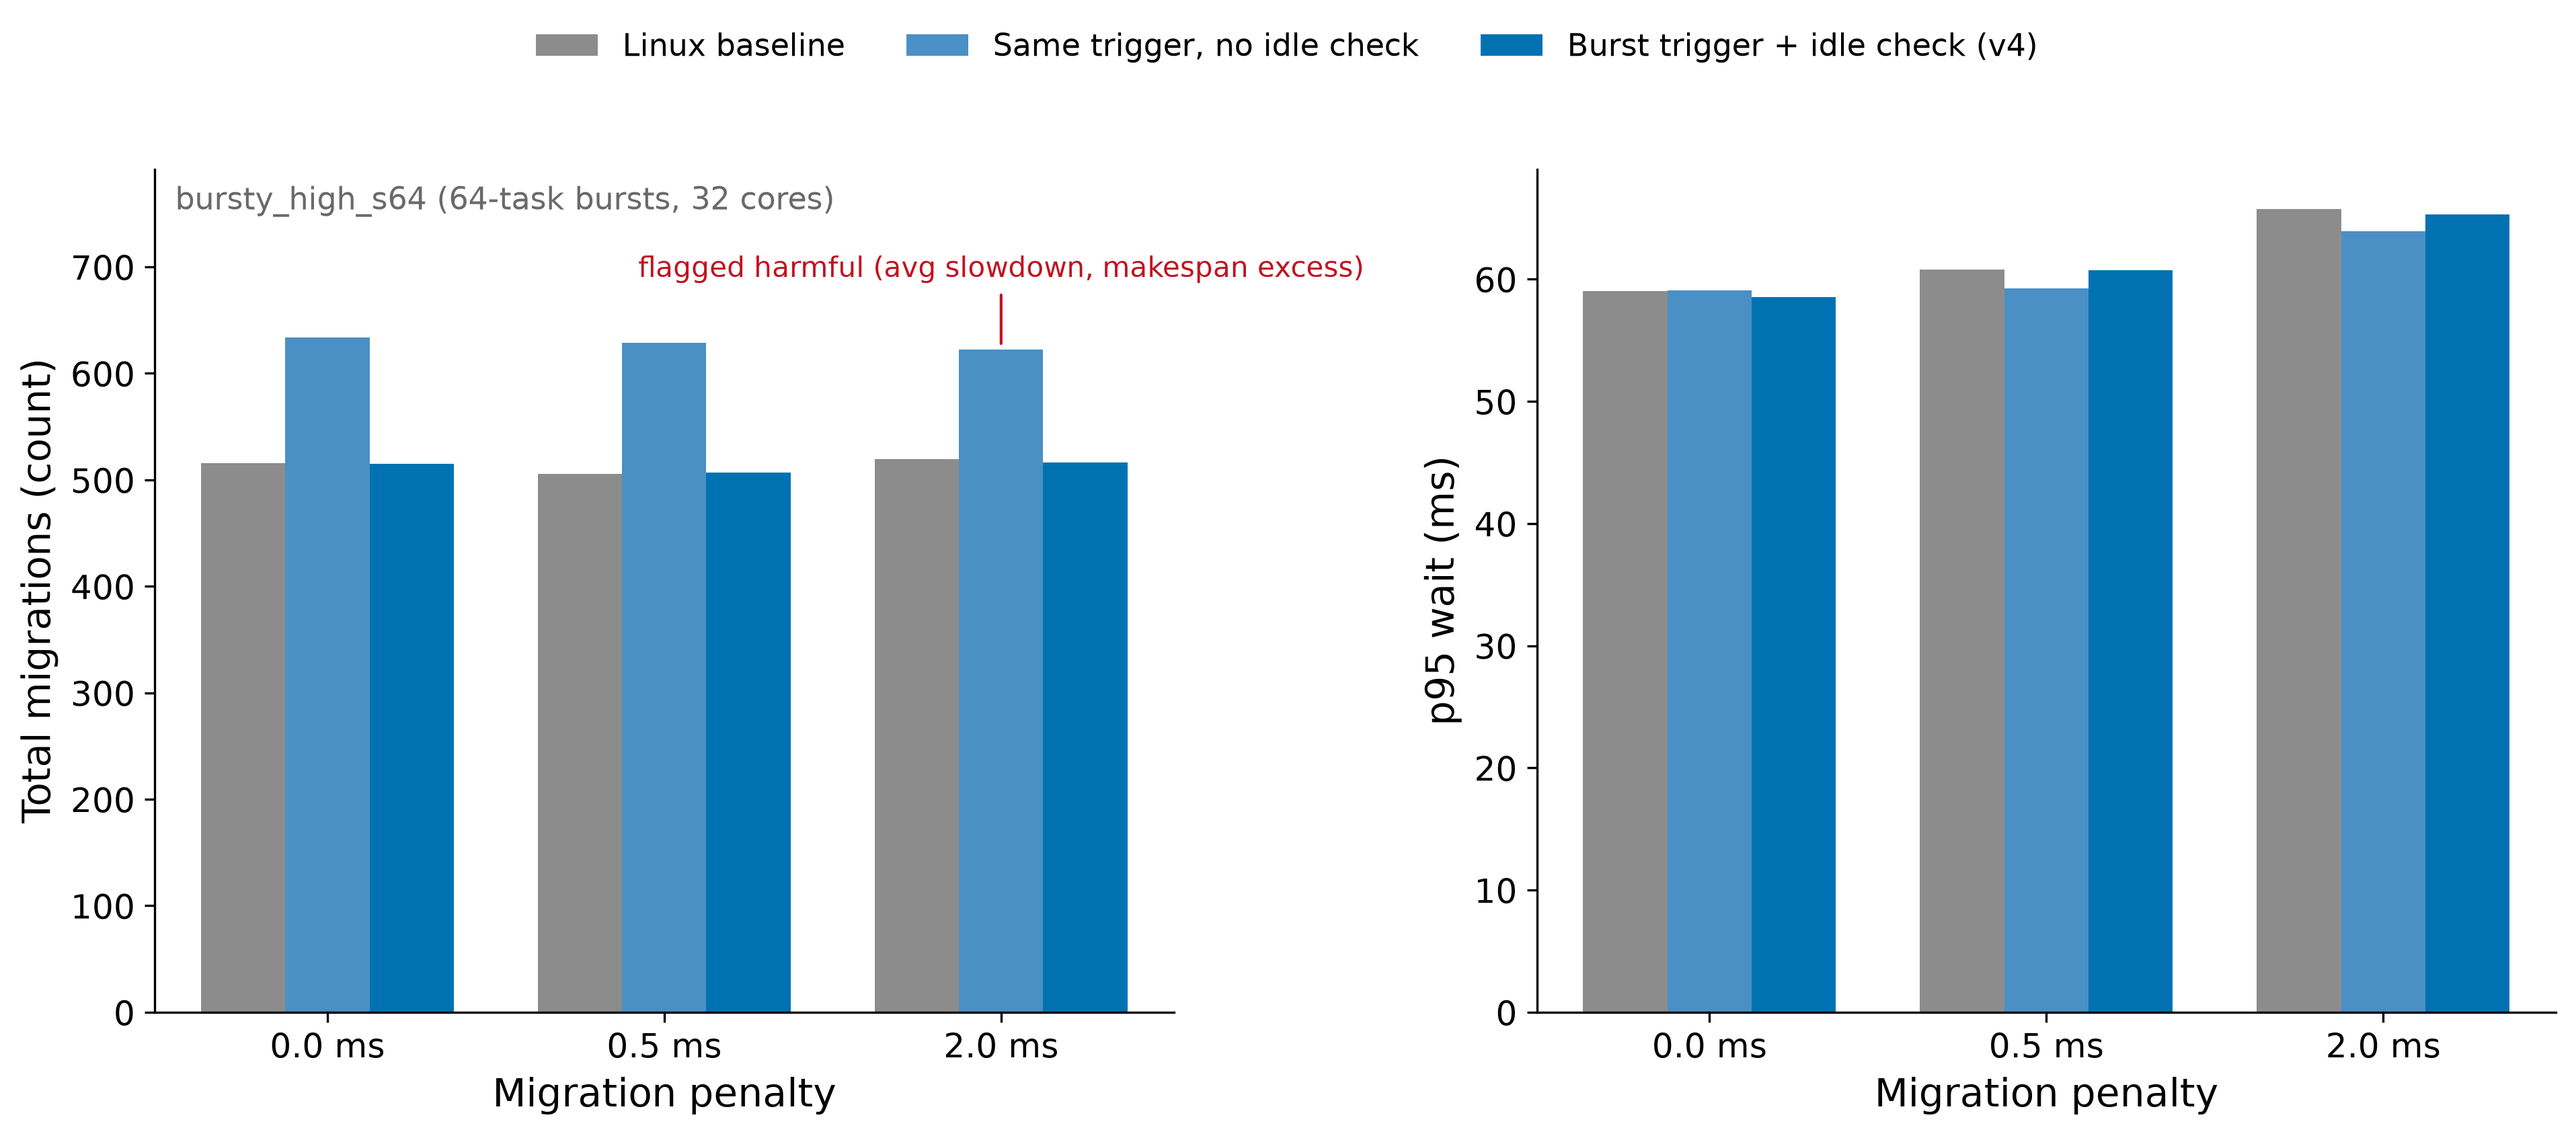
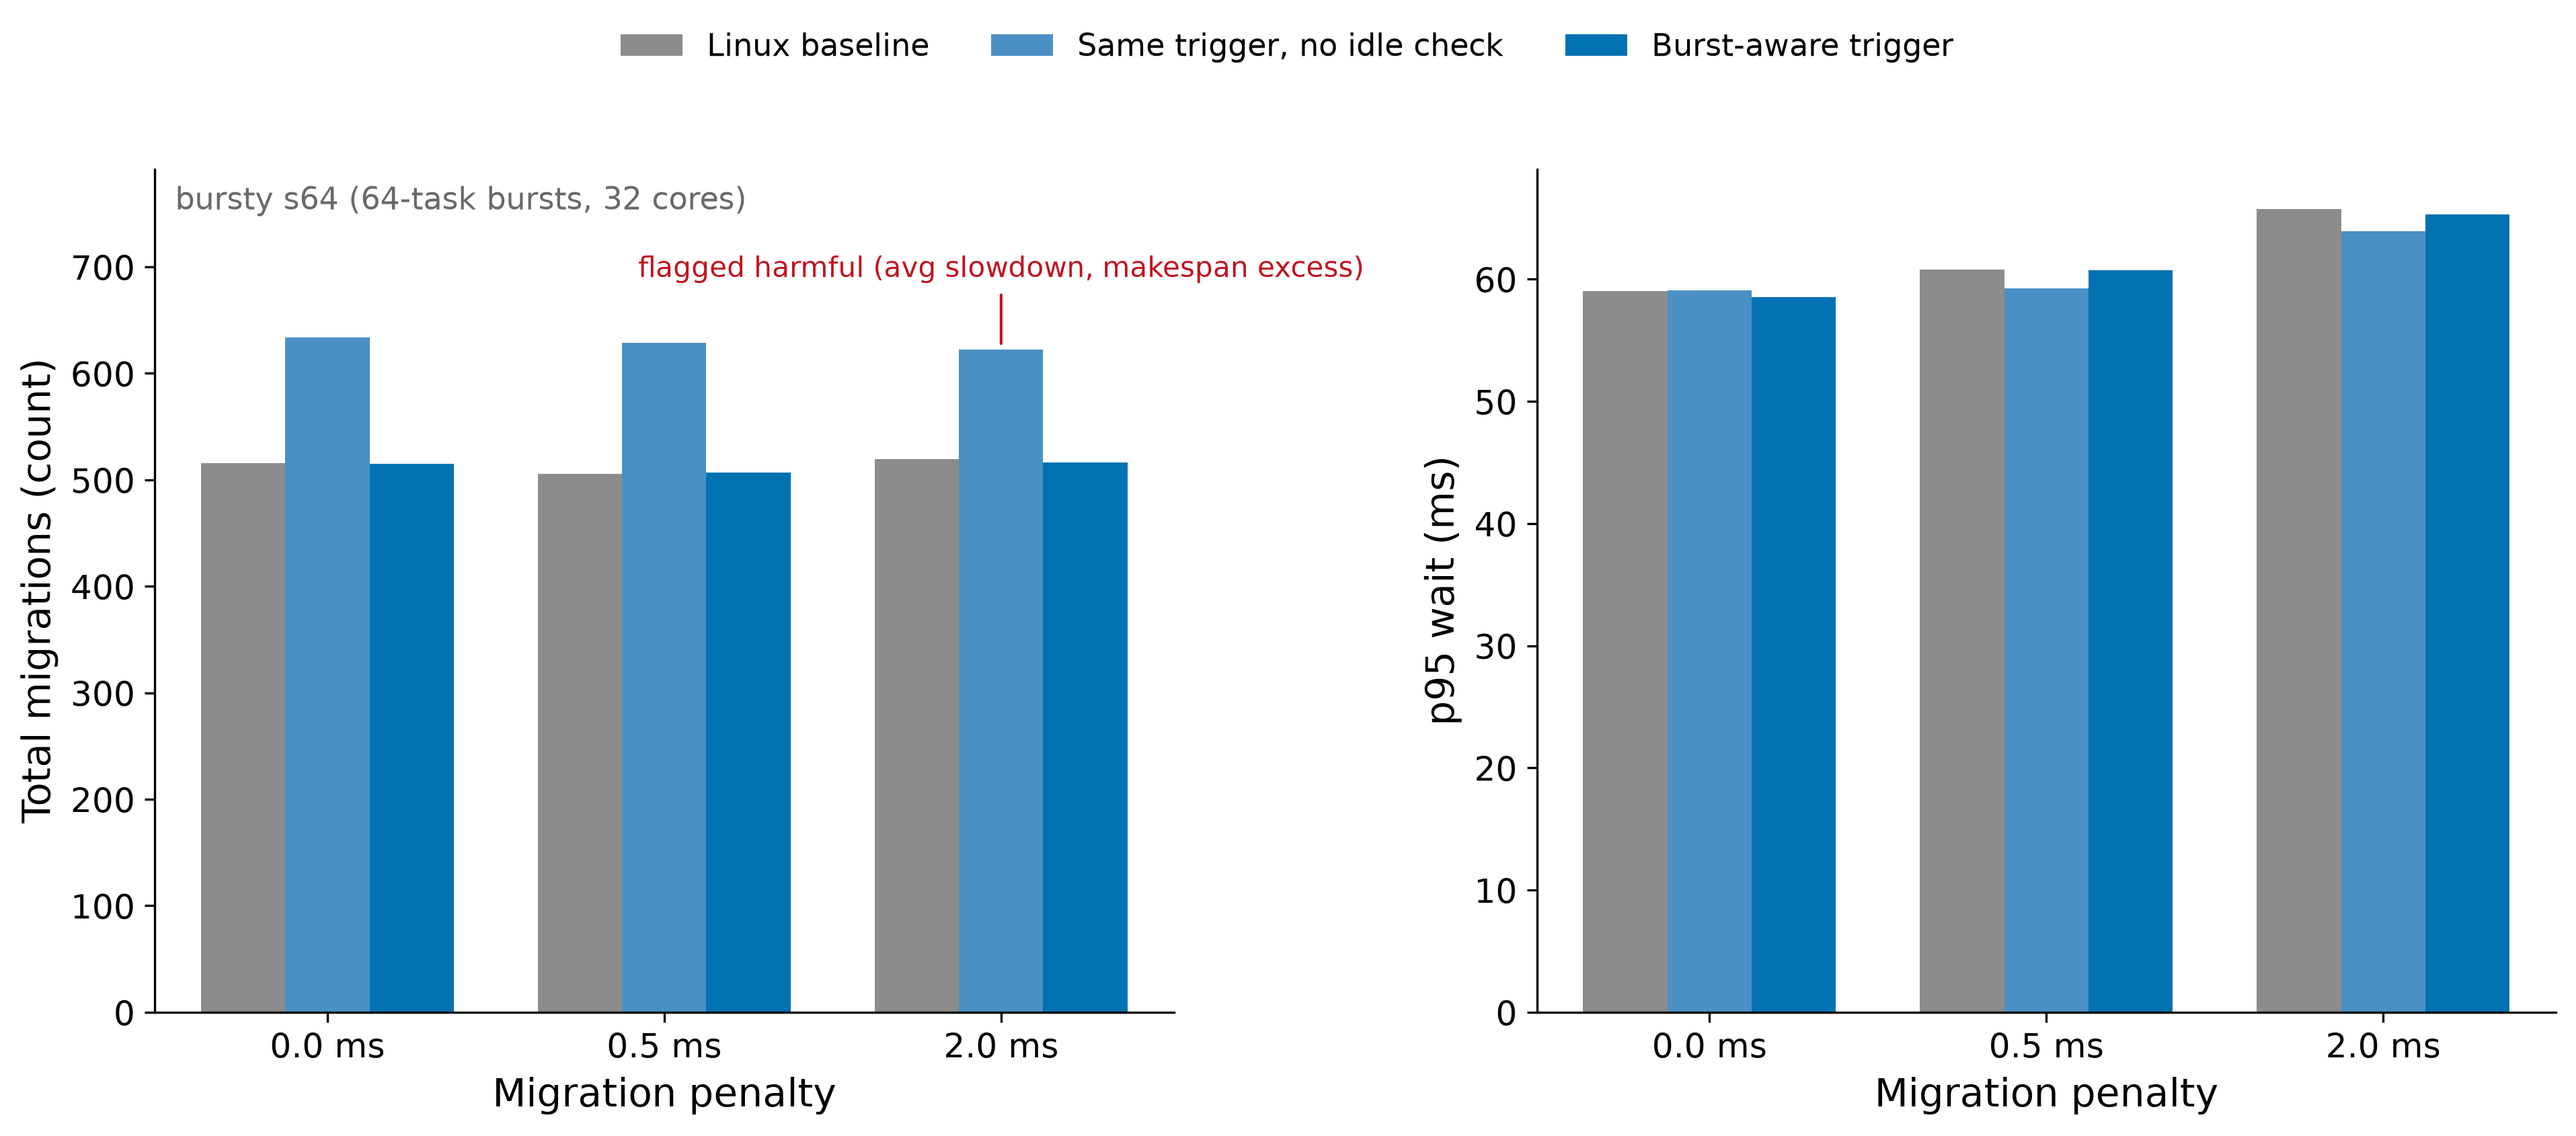
Figure labels: config numbers, paper workload names

Changed region(s): [[0.1864, 0.0308, 0.7766, 0.0615], [0.0932, 0.1538, 0.3106, 0.1846]]

diff --git a/final_results/figures/make_figures.py b/final_results/figures/make_figures.py
@@ -59,7 +59,7 @@ if not os.environ.get("TASK10_V4"):
 
 LABELS = {
     "baseline": "Linux baseline",
-    "selected_checked": "Burst trigger + idle check (v4)",
+    "selected_checked": "Burst-aware trigger",
     "selected_unchecked": "Same trigger, no idle check",
 }
 
@@ -101,6 +101,25 @@ WORKLOAD_ORDER = [
     "rate1.0_s4", "rate1.0_s12", "rate1.5_s4", "rate1.5_s12",
     "rate3.0_s4", "rate3.0_s12",
 ]
+
+# Paper-facing names for the code's workload keys (display text only --
+# every CSV lookup/dict key elsewhere in this file still uses the code
+# name unchanged). The 6 non-rate names are spelled out by hand; the 10
+# rate-sweep names are parsed from the key itself (rate{r}_s{s}) so they
+# can't drift out of sync with WORKLOAD_ORDER.
+DISPLAY_NAME = {
+    "stacked_low": "stacked low",
+    "stacked_medium": "stacked medium",
+    "stacked_high": "stacked high",
+    "bursty_high_s24": "bursty s24",
+    "bursty_high_s64": "bursty s64",
+    "heavy_tail_high": "heavy tail",
+}
+for _wl in WORKLOAD_ORDER:
+    if _wl not in DISPLAY_NAME:
+        _m = re.match(r"rate([\d.]+)_s(\d+)$", _wl)
+        DISPLAY_NAME[_wl] = f"rate sweep s{_m.group(2)}, {_m.group(1)} tasks/ms"
+assert set(DISPLAY_NAME) == set(WORKLOAD_ORDER), "DISPLAY_NAME must cover exactly WORKLOAD_ORDER"
 
 plt.rcParams.update({
     "font.size": 14,
@@ -166,14 +185,22 @@ def pretty_metric(name):
 
 # =============================================================== Fig 0 ==
 
-def config_label(row):
+def config_label(row, config_number):
     combine_word = "OR" if row["combine"] == "or" else "AND"
-    return f"q≥{int(float(row['q']))} {combine_word} rate≥{row['a']}"
+    n = config_number[row["config"]]
+    return f"#{n}  q≥{int(float(row['q']))} {combine_word} rate≥{row['a']}"
 
 
 def fig0_calibration_grid():
     rows = read_grid_csv("tradeoff_points_v4.csv")
     sel = read_grid_json("selected_config_v4.json")
+
+    # Config numbers #1-12, derived from the config names themselves
+    # (q{q}_a{a}_{and|or}), not hand-assigned: sorting those strings
+    # alphabetically groups by q (2 < 4 < 8), then by rate ("0.8" < "1.5"),
+    # then "and" < "or" -- exactly q2_a0.8_and, q2_a0.8_or, q2_a1.5_and, ...,
+    # q8_a1.5_or, #1 through #12 in that order.
+    config_number = {cfg: i + 1 for i, cfg in enumerate(sorted(r["config"] for r in rows))}
 
     # The 4 cells the selection score is averaged over (docs/PIPELINE.md's
     # Selection step): stacked_medium/stacked_high x penalties 0/0.5.
@@ -184,7 +211,7 @@ def fig0_calibration_grid():
         mean_pct = sum(fnum(r, c) for c in P95_COLS) / len(P95_COLS)
         points.append(dict(
             config=r["config"], harm_count=int(r["harm_count"]),
-            mean_pct=mean_pct, label=config_label(r),
+            mean_pct=mean_pct, label=config_label(r, config_number),
         ))
 
     # Verify against a SECOND, independently-written source
@@ -263,8 +290,7 @@ def fig0_calibration_grid():
     # regardless of whether every value happens to be negative -- excluding
     # it here would silently clip every bar's true starting edge.
     ax.set_xlim(min(xmin, 0) - 3 * label_pad, max(xmax, 0) + 3 * label_pad)
-    ax.set_xlabel("Mean p95 wait change, stacked_medium + stacked_high (%) "
-                  "-- number at bar end = disqualifying harm cells (penalties 0 & 0.5)")
+    ax.set_xlabel("Mean p95 wait change (%)")
 
     handles = [
         Line2D([0], [0], marker="s", linestyle="none", markersize=14,
@@ -274,14 +300,14 @@ def fig0_calibration_grid():
                markerfacecolor=DISQUALIFIED_COLOR, markeredgecolor=DISQUALIFIED_COLOR,
                label="Disqualified (harmful)"),
         Line2D([0], [0], marker="*", linestyle="none", markersize=17, color="black",
-               label=f"Selected (v4): {selected_pt['label']}"),
+               label=f"Selected: {selected_pt['label']}"),
         Line2D([0], [0], marker="D", linestyle="none", markersize=10,
                markerfacecolor="white", markeredgecolor="black", markeredgewidth=2,
                label=f"Runner-up: {runner_up_pt['label']}"),
     ]
     fig.legend(handles=handles, loc="lower center", ncol=2, frameon=False,
-               fontsize=11, bbox_to_anchor=(0.5, -0.1))
-    fig.tight_layout(rect=(0, 0.1, 1, 1))
+               fontsize=11, bbox_to_anchor=(0.5, -0.02))
+    fig.tight_layout(rect=(0, 0.06, 1, 1))
 
     save(fig, "fig0_calibration_grid")
     return dict(selected=selected_name, runner_up=runner_up_name,
@@ -332,14 +358,14 @@ def fig1_headline():
 
     ax.axvline(0, color="black", linewidth=1.0)
     ax.set_yticks(y)
-    ax.set_yticklabels(ordered_for_plot)
+    ax.set_yticklabels([DISPLAY_NAME[wl] for wl in ordered_for_plot])
     ax.set_xlabel(f"p95 wait change vs baseline (%) -- penalty {PEN} ms")
 
     handles, labels = ax.get_legend_handles_labels()
     handles += [
         Line2D([0], [0], marker="o", linestyle="none", markersize=9,
                markerfacecolor="white", markeredgecolor=COLOR["selected_checked"],
-               markeredgewidth=1.6, label="No measurable change (v4)"),
+               markeredgewidth=1.6, label="No measurable change"),
         Line2D([0], [0], marker="*", linestyle="none", markersize=14,
                color=COLOR["sig"], label=f"Statistically significant improvement (p<{SIG_ALPHA})"),
         Line2D([0], [0], marker="^", linestyle="none", markersize=10,
@@ -380,11 +406,11 @@ def fig2_stacked_high_scatter():
     ax.set_ylim(lo - pad, hi + pad)
     ax.set_aspect("equal")
     ax.set_xlabel("Linux baseline p95 wait (ms)")
-    ax.set_ylabel("v4 p95 wait (ms)")
+    ax.set_ylabel("Burst-aware p95 wait (ms)")
     ax.annotate(f"{improved} of {n} seeds improved",
                 xy=(0.04, 0.94), xycoords="axes fraction",
                 fontsize=13, va="top")
-    ax.annotate(f"{FIG2_WORKLOAD}, migration penalty {FIG2_PENALTY} ms",
+    ax.annotate(f"{DISPLAY_NAME[FIG2_WORKLOAD]}, migration penalty {FIG2_PENALTY} ms",
                 xy=(0.04, 0.88), xycoords="axes fraction",
                 fontsize=11, va="top", color="dimgray")
     fig.legend(loc="lower center", ncol=2, frameon=False, fontsize=11,
@@ -496,7 +522,7 @@ def fig3_bursty_high_s64():
                              arrowprops=dict(arrowstyle="-", color=COLOR["harm"], linewidth=1))
     ax1.set_ylim(top=mig_top * 1.25)
 
-    ax1.annotate(f"{WL} ({burst_size_of(WL)}-task bursts, {MACHINE_CORES} cores)",
+    ax1.annotate(f"{DISPLAY_NAME[WL]} ({burst_size_of(WL)}-task bursts, {MACHINE_CORES} cores)",
                  xy=(0.02, 0.98), xycoords="axes fraction", fontsize=11,
                  va="top", color="dimgray")
 

diff --git a/docs/FILES.md b/docs/FILES.md
@@ -69,14 +69,14 @@ Read-only, same discipline as `3_idle_check_cost/build_cost_table.py`: no simula
 
 | file | what it does |
 |---|---|
-| `make_figures.py` | One script, five figures. Reads `results_task6_confirmation_v4_MAIN_TABLE.csv`, `_TABLE_selected_unchecked.csv`, `_TABLE_original_q2_a0.8_or_unchecked.csv`, `_CHECK_EFFECT.csv`, the `stacked_high` per-seed CSV, and (Fig 0) `../1_calibration_grid/tradeoff_points_v4.csv` + `selected_config_v4.json`. Cross-checks every plotted number against a second source table before drawing it (e.g. Fig 0's harm-free list and selected/runner-up scores are checked against `selected_config_v4.json`, independently written by a different script; Fig 3's migration counts are independently recomputed and compared against `_CHECK_EFFECT.csv`'s own percentage column) and prints every check's result. |
+| `make_figures.py` | One script, five figures. Reads `results_task6_confirmation_v4_MAIN_TABLE.csv`, `_TABLE_selected_unchecked.csv`, `_CHECK_EFFECT.csv`, the `stacked_high` per-seed CSV, and (Fig 0) `../1_calibration_grid/tradeoff_points_v4.csv` + `selected_config_v4.json`. Cross-checks every plotted number against a second source table before drawing it (e.g. Fig 0's harm-free list and selected/runner-up scores are checked against `selected_config_v4.json`, independently written by a different script; Fig 3's migration counts are independently recomputed and compared against `_CHECK_EFFECT.csv`'s own percentage column) and prints every check's result. |
 | `fig0_calibration_grid.png` | The 12-config calibration grid as a horizontal bar chart: one bar per config, length = mean `p95_wait` change on `stacked_medium`+`stacked_high` (penalties 0/0.5), sorted best (most negative) at top. Bar color is harm-free vs disqualified; the disqualifying-harm-cell count is written at each bar's end. Selected (star) and runner-up (open diamond) marked on their own bars. Console output also prints the disqualified config list directly from `tradeoff_points_v4.csv`. |
-| `fig1_headline_p95wait_by_workload.png` | All 16 workloads, p95_wait % change vs baseline at penalty=0.5ms, `selected_checked` vs `original_q2_a0.8_or_unchecked`, sorted so the 4 workloads where v4 significantly helps are at the top; a small circle marks a workload where v4's own change is exactly zero. |
+| `fig1_headline_p95wait_by_workload.png` | All 16 workloads, p95_wait % change vs baseline at penalty=0.5ms for the selected configuration (`selected_checked`) only, sorted so the 4 workloads where it significantly helps are at the top; a small circle marks a workload where its change is exactly zero. |
 | `fig2_stacked_high_perseed_scatter.png` | `stacked_high`/penalty=0.5: one point per seed, baseline vs `selected_checked` p95_wait, with the y=x line and the improved-seed count annotated. |
 | `fig3_bursty_high_s64_checked_vs_unchecked.png` | `bursty_high_s64`, all 3 penalties: `total_migrations` and `p95_wait` for baseline/`selected_unchecked`/`selected_checked`. The one harmful cell (`selected_unchecked`, penalty=2.0) is called out by a text label on the migrations panel naming the specific metrics that tripped it (read from that row's own per-metric harm columns -- `avg_slowdown`/`makespan_excess`, not p95_wait or migrations themselves), rather than a marker on both panels. |
-| `fig4_p95wait_vs_arrival_rate.png` | The arrival-rate figure (`2_confirmation/history/figure_p95wait_vs_arrival_rate_v4.png`'s data, the superseded original), restyled: p95_wait % change vs `arrival_rate_during_burst`, burst sizes 4 and 12, `selected_checked` vs `original_q2_a0.8_or_unchecked`, penalties 0.5 and 2ms (matching Fig 1's penalty), with any harmful point marked. |
+| `fig4_p95wait_vs_arrival_rate.png` | The arrival-rate figure (`2_confirmation/history/figure_p95wait_vs_arrival_rate_v4.png`'s data, the superseded original), restyled: p95_wait % change vs `arrival_rate_during_burst`, burst sizes 4 and 12, selected configuration (`selected_checked`) only, penalties 0.5 and 2ms (matching Fig 1's penalty), with any harmful point marked. |
 
-Figs 1-4 use plain-language series names (e.g. "Burst trigger + idle check (v4)" for `selected_checked`) rather than the CSV's own variant codes -- the one `LABELS` dict at the top of `make_figures.py` is the only place that mapping lives. Fig 0 predates the confirmation (it's the calibration step), so it labels configurations by their actual thresholds instead (e.g. "q≥8 OR rate≥1.5"), derived from `tradeoff_points_v4.csv`'s own `q`/`a`/`combine` columns.
+Figs 1-4 use plain-language series names (e.g. "Burst-aware trigger" for `selected_checked`) rather than the CSV's own variant codes -- the one `LABELS` dict at the top of `make_figures.py` is the only place that mapping lives. Fig 0 predates the confirmation (it's the calibration step), so it labels configurations by their actual thresholds instead (e.g. "q≥8 OR rate≥1.5"), derived from `tradeoff_points_v4.csv`'s own `q`/`a`/`combine` columns.
 
 ### `development/` — one-off diagnosis and verification, real findings that aren't the final numbers
 

diff --git a/docs/PIPELINE.md b/docs/PIPELINE.md
@@ -109,12 +109,12 @@ python make_figures.py
 No arguments; same `TASK10_V4=1` requirement as every script above (refuses to run otherwise). Reads only CSVs already on disk — the two confirmation steps above, plus the already-committed calibration-grid CSVs for Fig 0 — no new simulations, nothing in `final_results/2_confirmation/` or `final_results/1_calibration_grid/` is modified. Writes five PNG figures (300 dpi) into `final_results/figures/`:
 
 - `fig0_calibration_grid.png` — the 12-config calibration grid as a horizontal bar chart (one bar per config, sorted by mean `p95_wait` change on `stacked_medium`+`stacked_high`, penalties 0/0.5; harm-free vs disqualified by color, disqualifying-cell count at each bar's end, selected/runner-up marked), from `final_results/1_calibration_grid/tradeoff_points_v4.csv`, cross-checked against `selected_config_v4.json`.
-- `fig1_headline_p95wait_by_workload.png` — all 16 workloads' `p95_wait` % change at penalty=0.5ms, `selected_checked` vs `original_q2_a0.8_or_unchecked`, from `_MAIN_TABLE.csv` and `_TABLE_original_q2_a0.8_or_unchecked.csv`.
+- `fig1_headline_p95wait_by_workload.png` — all 16 workloads' `p95_wait` % change at penalty=0.5ms for the selected configuration (`selected_checked`) only, from `_MAIN_TABLE.csv`.
 - `fig2_stacked_high_perseed_scatter.png` — `stacked_high`/penalty=0.5, one point per seed, from `results_task6_confirmation_v4_stacked_high_perseed.csv`.
 - `fig3_bursty_high_s64_checked_vs_unchecked.png` — `bursty_high_s64`, all 3 penalties, `total_migrations` and `p95_wait` for baseline/`selected_unchecked`/`selected_checked`, from `_MAIN_TABLE.csv` and `_TABLE_selected_unchecked.csv`, cross-checked against `_CHECK_EFFECT.csv`.
-- `fig4_p95wait_vs_arrival_rate.png` — the same data as `history/figure_p95wait_vs_arrival_rate_v4.png` above, restyled to match the other three (penalties 0.5/2ms, matching Fig 1, rather than that figure's 0/2ms), from `_MAIN_TABLE.csv` and `_TABLE_original_q2_a0.8_or_unchecked.csv`.
+- `fig4_p95wait_vs_arrival_rate.png` — the same data as `history/figure_p95wait_vs_arrival_rate_v4.png` above, restyled to match the other three (penalties 0.5/2ms, matching Fig 1, rather than that figure's 0/2ms), selected configuration (`selected_checked`) only, from `_MAIN_TABLE.csv`.
 
-All five use plain-language series names (e.g. "Burst trigger + idle check (v4)") rather than the CSVs' own variant codes, and read every plotted fact -- which workloads help, where a value is exactly zero, which cells are harmful and on which specific metric, which configs are harm-free -- from the CSVs at run time (see `make_figures.py`'s own settings block for the only hardcoded choices: labels, colors, and which workload/penalty Figs 2-4 look at).
+All five use plain-language series names (e.g. "Burst-aware trigger") rather than the CSVs' own variant codes, and read every plotted fact -- which workloads help, where a value is exactly zero, which cells are harmful and on which specific metric, which configs are harm-free -- from the CSVs at run time (see `make_figures.py`'s own settings block for the only hardcoded choices: labels, colors, and which workload/penalty Figs 2-4 look at).
 
 ## How to read an output line
 
